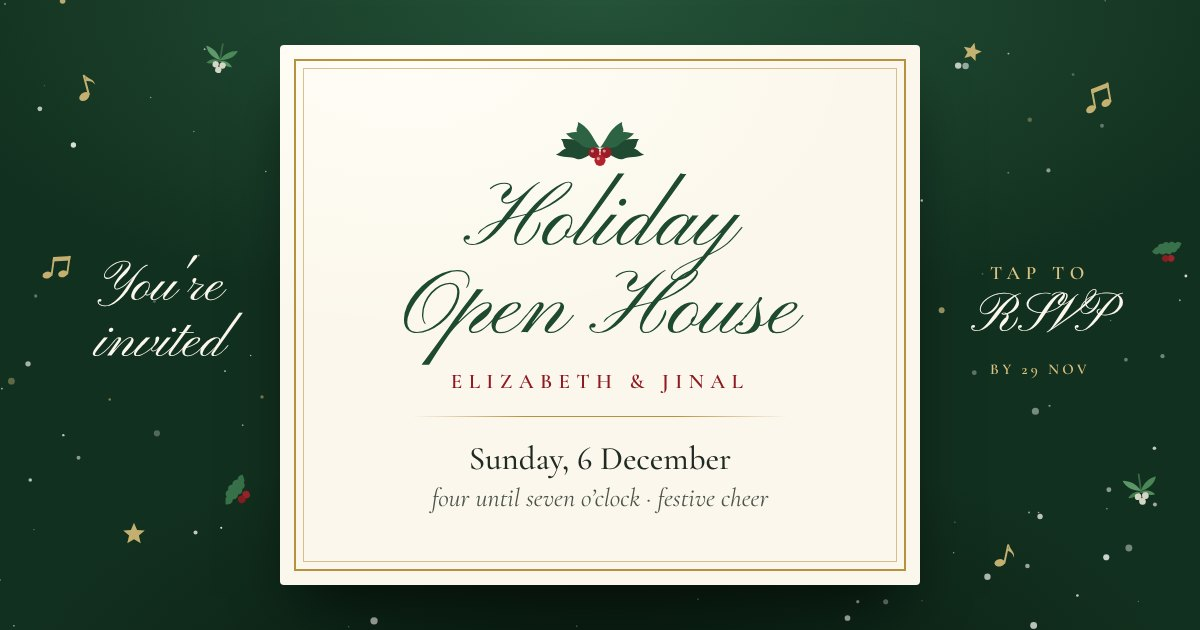
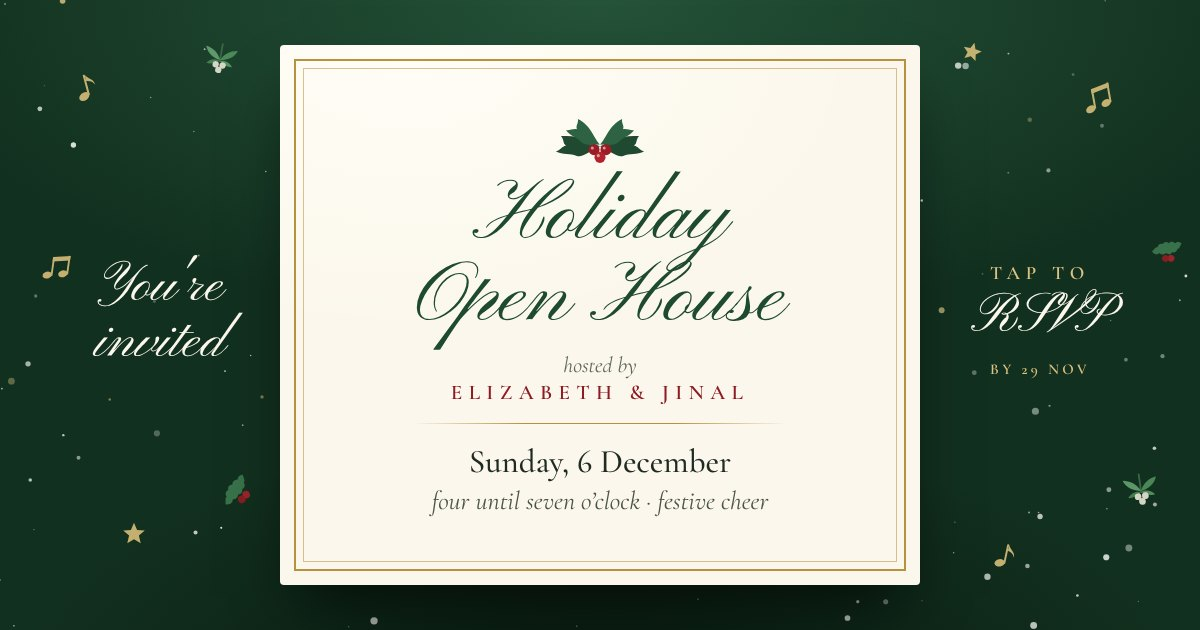
Simplify wording, whole envelope screen tappable, preview title
- 'Elizabeth & Jinal invite you'
- Little ones, plus-ones and four-legged friends are welcome
- Tapping 'Tap to open' or anywhere on the envelope screen opens it
- WhatsApp title: Holiday Open House hosted by Elizabeth and Jinal (og.jpg?v=3)

Claude-Session: https://claude.ai/code/session_01S8JgkYE1LDWQ8TFi1Vf3yZ

diff --git a/templates/invite.html b/templates/invite.html
@@ -3,7 +3,7 @@
 <head>
   <meta charset="utf-8">
   <meta name="viewport" content="width=device-width, initial-scale=1, viewport-fit=cover">
-  <title>Holiday Open House · Elizabeth &amp; Jinal</title>
+  <title>Holiday Open House hosted by Elizabeth and Jinal</title>
   <meta name="description" content="Elizabeth &amp; Jinal invite you to their Holiday Open House on Sunday 6 December, 4–7pm. Kindly reply by 29 November.">
   <meta name="theme-color" content="#0d2417">
 
@@ -11,29 +11,29 @@
   <meta property="og:type" content="website">
   <meta property="og:site_name" content="Elizabeth &amp; Jinal">
   <meta property="og:url" content="{{ORIGIN}}/">
-  <meta property="og:title" content="You're invited: Holiday Open House">
-  <meta property="og:description" content="Elizabeth &amp; Jinal · Sunday 6 December, 4–7pm · Tap to RSVP by 29 November.">
-  <meta property="og:image" content="{{ORIGIN}}/og.jpg?v=2">
-  <meta property="og:image:secure_url" content="{{ORIGIN}}/og.jpg?v=2">
+  <meta property="og:title" content="Holiday Open House hosted by Elizabeth and Jinal">
+  <meta property="og:description" content="You're invited · Sunday 6 December, 4–7pm · Tap to RSVP by 29 November.">
+  <meta property="og:image" content="{{ORIGIN}}/og.jpg?v=3">
+  <meta property="og:image:secure_url" content="{{ORIGIN}}/og.jpg?v=3">
   <meta property="og:image:type" content="image/jpeg">
   <meta property="og:image:width" content="1200">
   <meta property="og:image:height" content="630">
   <meta property="og:image:alt" content="Holiday Open House invitation from Elizabeth and Jinal">
   <meta name="twitter:card" content="summary_large_image">
-  <meta name="twitter:image" content="{{ORIGIN}}/og.jpg?v=2">
+  <meta name="twitter:image" content="{{ORIGIN}}/og.jpg?v=3">
 
   <link rel="icon" href="/favicon.png" type="image/png">
   <link rel="apple-touch-icon" href="/apple-touch-icon.png">
   <link rel="preload" href="/fonts/pinyon-script-latin-400-normal.woff2" as="font" type="font/woff2" crossorigin>
   <link rel="preload" href="/fonts/cormorant-garamond-latin-500-normal.woff2" as="font" type="font/woff2" crossorigin>
-  <link rel="stylesheet" href="/assets/invite.css?v=2">
+  <link rel="stylesheet" href="/assets/invite.css?v=3">
 </head>
 <body>
   <canvas id="snow" aria-hidden="true"></canvas>
 
   <!-- ============ Envelope ============ -->
   <section id="stage" class="stage" aria-label="Your invitation">
-    <p class="stage-eyebrow">Elizabeth &amp; Jinal invite you over</p>
+    <p class="stage-eyebrow">Elizabeth &amp; Jinal invite you</p>
     <button id="envelope" class="env" type="button" aria-label="Open your invitation">
       <span class="env-back"></span>
       <span class="env-card">
@@ -106,7 +106,7 @@
         <div class="rule" aria-hidden="true"><span>❄</span></div>
 
         <p class="message">Please join us for an evening of festive&nbsp;cheer.</p>
-        <p class="message-sub">Little ones, plus-ones and four-legged friends,<br>all are welcome till the evening ends.</p>
+        <p class="message-sub">Little ones, plus-ones and four-legged friends are&nbsp;welcome.</p>
         <p class="reply-by">Kindly reply by<br>Sunday, 29 November</p>
 
         <div class="actions">
@@ -202,6 +202,6 @@
   </main>
 
   <div class="toast" id="toast" role="status" aria-live="polite"></div>
-  <script src="/assets/invite.js?v=2" defer></script>
+  <script src="/assets/invite.js?v=3" defer></script>
 </body>
 </html>

diff --git a/public/assets/invite.css b/public/assets/invite.css
@@ -54,6 +54,7 @@ button { font: inherit; color: inherit; }
   display: flex; flex-direction: column; align-items: center; justify-content: center;
   gap: 28px; padding: 24px 16px calc(24px + env(safe-area-inset-bottom));
   transition: opacity .8s ease, transform .9s var(--ease);
+  cursor: pointer; -webkit-tap-highlight-color: transparent;
 }
 .stage.gone { opacity: 0; transform: scale(1.04); pointer-events: none; }
 .stage-eyebrow {

diff --git a/public/assets/invite.js b/public/assets/invite.js
@@ -140,6 +140,8 @@
       setTimeout(() => env.classList.add('card-out'), t[1]);
       setTimeout(() => { window.scrollTo(0, 0); showInvite(true); }, t[2]);
     }, { once: false });
+    // Tapping anywhere on the envelope screen (e.g. "Tap to open") opens it too
+    stage.addEventListener('click', e => { if (!env.contains(e.target)) env.click(); });
   }
 
   /* ---------------- Calendar menu ---------------- */
